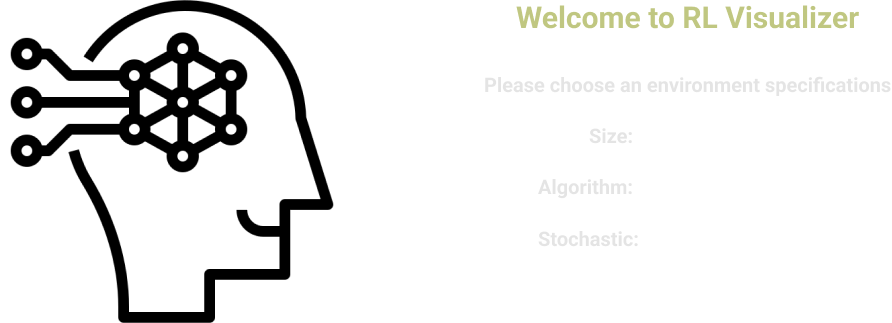
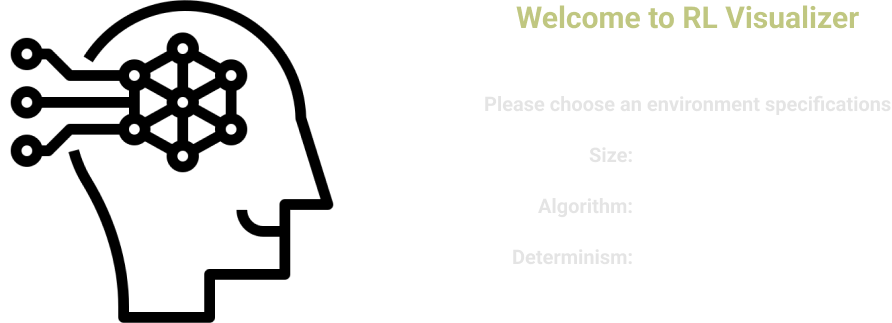
added flexible stochastism functionality

diff --git a/Value_Iteration.py b/Value_Iteration.py
@@ -1,18 +1,18 @@
 import numpy as np
-from tkinter import Canvas
+from tkinter import W, Canvas
 
 from Enums import Actors
 
 class Value_Iteration:   
-    def __init__(self, grid_size, grid_actors, canvas_grid: Canvas, space_width, space_height, stochastic):
+    def __init__(self, grid_size, grid_actors, canvas_grid: Canvas, space_width, space_height, determinism):
         self.grid_size = grid_size
         self.grid_actors = grid_actors
         self.canvas_grid = canvas_grid
         self.space_width = space_width
         self.space_height = space_height
-        self.stochastic = stochastic
+        self.determinism = determinism
         
-        self.R = np.full((self.grid_size, self.grid_size), -0.1)
+        self.R = np.full((self.grid_size, self.grid_size), -1.0)
         self.V = np.zeros((self.grid_size, self.grid_size), float)
         self.draw_rewards()
         self.draw_values()
@@ -85,97 +85,100 @@ class Value_Iteration:
 
     def set_transitions(self):
         self.P = np.zeros((self.grid_size, self.grid_size, self.N_actions, self.grid_size, self.grid_size))
-        fraction = 0.1
 
-        if (self.stochastic == 1):
-            for x in range(self.grid_size):
-                for y in range(self.grid_size):
-                    #North
-                    counter = 0.0
-                    if y != 0 and self.grid_actors[x,y-1] != Actors.obstacle:
-                        if y != self.grid_size - 1 and self.grid_actors[x,y+1] != Actors.obstacle:
-                            self.P[x, y, 0, x, y+1] = fraction
-                            counter += fraction
-                        if x != self.grid_size - 1 and self.grid_actors[x+1,y] != Actors.obstacle:
-                            self.P[x, y, 0, x+1, y] = fraction
-                            counter += fraction
-                        if x != 0 and self.grid_actors[x-1,y] != Actors.obstacle:
-                            self.P[x, y, 0, x-1, y] = fraction
-                            counter += fraction
-                        self.P[x, y, 0, x, y-1] = 1.0 - counter
-                    else:
-                        self.P[x, y, 0, x, y] = 1.0
-                    
-                    #East
-                    counter = 0.0
-                    if x != self.grid_size - 1 and self.grid_actors[x+1,y] != Actors.obstacle:
-                        if y != 0 and self.grid_actors[x,y-1] != Actors.obstacle:
-                            self.P[x, y, 1, x, y-1] = fraction
-                            counter += fraction
-                        if y != self.grid_size - 1 and self.grid_actors[x,y+1] != Actors.obstacle:
-                            self.P[x, y, 1, x, y+1] = fraction
-                            counter += fraction
-                        if x != 0 and self.grid_actors[x-1,y] != Actors.obstacle:
-                            self.P[x, y, 1, x-1, y] = fraction
-                            counter += fraction
-                        self.P[x, y, 1, x+1, y] = 1.0 - counter
-                    else:
-                        self.P[x, y, 1, x, y] = 1.0
-                    
-                    #South
-                    counter = 0.0
+        for x in range(self.grid_size):
+            for y in range(self.grid_size):
+                #North
+                counter = 0
+                if y != 0 and self.grid_actors[x,y-1] != Actors.obstacle:
+                    self.P[x, y, 0, x, y-1] = self.determinism
+
                     if y != self.grid_size - 1 and self.grid_actors[x,y+1] != Actors.obstacle:
-                        if y != 0 and self.grid_actors[x,y-1] != Actors.obstacle:
-                            self.P[x, y, 2, x, y-1] = fraction
-                            counter += fraction
-                        if x != self.grid_size - 1 and self.grid_actors[x+1,y] != Actors.obstacle:
-                            self.P[x, y, 2, x+1, y] = fraction
-                            counter += fraction
-                        if x != 0 and self.grid_actors[x-1,y] != Actors.obstacle:
-                            self.P[x, y, 2, x-1, y] = fraction
-                            counter += fraction
-                        self.P[x, y, 2, x, y+1] = 1.0 - counter
-                    else:
-                        self.P[x, y, 2, x, y] = 1.0
-                    
-                    #West
-                    counter = 0.0
-                    if x != 0 and self.grid_actors[x-1,y] != Actors.obstacle:
-                        if y != 0 and self.grid_actors[x,y-1] != Actors.obstacle:
-                            self.P[x, y, 3, x, y-1] = fraction
-                            counter += fraction
-                        if x != self.grid_size - 1 and self.grid_actors[x+1,y] != Actors.obstacle:
-                            self.P[x, y, 3, x+1, y] = fraction
-                            counter += fraction
-                        if y != self.grid_size - 1 and self.grid_actors[x,y+1] != Actors.obstacle:
-                            self.P[x, y, 3, x, y+1] = fraction
-                            counter += fraction
-                        self.P[x, y, 3, x-1, y] = 1.0 - counter
-                    else:
-                        self.P[x, y, 3, x, y] = 1.0
-        else:
-            for x in range(self.grid_size):
-                for y in range(self.grid_size):
-                    #North
-                    if y != 0 and self.grid_actors[x,y-1] != Actors.obstacle:
-                        self.P[x, y, 0, x, y-1] = 1.0
-                    else:
-                        self.P[x, y, 0, x, y] = 1.0
-                    #east
+                        counter += 1
                     if x != self.grid_size - 1 and self.grid_actors[x+1,y] != Actors.obstacle:
-                        self.P[x, y, 1, x+1, y] = 1.0
-                    else:
-                        self.P[x, y, 1, x, y] = 1.0
-                    #south
-                    if y != self.grid_size - 1 and self.grid_actors[x,y+1] != Actors.obstacle:
-                        self.P[x, y, 2, x, y+1] = 1.0
-                    else:
-                        self.P[x, y, 2, x, y] = 1.0
-                    #west
+                        counter += 1
                     if x != 0 and self.grid_actors[x-1,y] != Actors.obstacle:
-                        self.P[x, y, 3, x-1, y] = 1.0
-                    else:
-                        self.P[x, y, 3, x, y] = 1.0
+                        counter += 1
+                    
+                    wrong_way_probability = (1 - self.determinism) / counter
+
+                    if y != self.grid_size - 1 and self.grid_actors[x,y+1] != Actors.obstacle:
+                        self.P[x, y, 0, x, y+1] = wrong_way_probability
+                    if x != self.grid_size - 1 and self.grid_actors[x+1,y] != Actors.obstacle:
+                        self.P[x, y, 0, x+1, y] = wrong_way_probability
+                    if x != 0 and self.grid_actors[x-1,y] != Actors.obstacle:
+                        self.P[x, y, 0, x-1, y] = wrong_way_probability
+                else:
+                    self.P[x, y, 0, x, y] = 1.0
+
+                #East
+                counter = 0
+                if x != self.grid_size - 1 and self.grid_actors[x+1,y] != Actors.obstacle:
+                    self.P[x, y, 1, x+1, y] = self.determinism
+
+                    if y != 0 and self.grid_actors[x,y-1] != Actors.obstacle:
+                        counter += 1
+                    if y != self.grid_size - 1 and self.grid_actors[x,y+1] != Actors.obstacle:
+                        counter += 1
+                    if x != 0 and self.grid_actors[x-1,y] != Actors.obstacle:
+                        counter += 1
+                    
+                    wrong_way_probability = (1 - self.determinism) / counter
+
+                    if y != 0 and self.grid_actors[x,y-1] != Actors.obstacle:
+                        self.P[x, y, 1, x, y-1] = wrong_way_probability
+                    if y != self.grid_size - 1 and self.grid_actors[x,y+1] != Actors.obstacle:
+                        self.P[x, y, 1, x, y+1] = wrong_way_probability
+                    if x != 0 and self.grid_actors[x-1,y] != Actors.obstacle:
+                        self.P[x, y, 1, x-1, y] = wrong_way_probability
+                else:
+                    self.P[x, y, 1, x, y] = 1.0
+                
+                #South
+                counter = 0.0
+                if y != self.grid_size - 1 and self.grid_actors[x,y+1] != Actors.obstacle:
+                    self.P[x, y, 2, x, y+1] = self.determinism
+
+                    if y != 0 and self.grid_actors[x,y-1] != Actors.obstacle:
+                        counter += 1
+                    if x != self.grid_size - 1 and self.grid_actors[x+1,y] != Actors.obstacle:
+                        counter += 1
+                    if x != 0 and self.grid_actors[x-1,y] != Actors.obstacle:
+                        counter += 1
+                    
+                    wrong_way_probability = (1 - self.determinism) / counter
+
+                    if y != 0 and self.grid_actors[x,y-1] != Actors.obstacle:
+                        self.P[x, y, 2, x, y-1] = wrong_way_probability
+                    if x != self.grid_size - 1 and self.grid_actors[x+1,y] != Actors.obstacle:
+                        self.P[x, y, 2, x+1, y] = wrong_way_probability
+                    if x != 0 and self.grid_actors[x-1,y] != Actors.obstacle:
+                        self.P[x, y, 2, x-1, y] = wrong_way_probability
+                else:
+                    self.P[x, y, 2, x, y] = 1.0
+                
+                #West
+                counter = 0.0
+                if x != 0 and self.grid_actors[x-1,y] != Actors.obstacle:
+                    self.P[x, y, 3, x-1, y] = self.determinism
+
+                    if y != 0 and self.grid_actors[x,y-1] != Actors.obstacle:
+                        counter += 1
+                    if x != self.grid_size - 1 and self.grid_actors[x+1,y] != Actors.obstacle:
+                        counter += 1
+                    if y != self.grid_size - 1 and self.grid_actors[x,y+1] != Actors.obstacle:
+                        counter += 1
+
+                    wrong_way_probability = (1 - self.determinism) / counter
+
+                    if y != 0 and self.grid_actors[x,y-1] != Actors.obstacle:
+                        self.P[x, y, 3, x, y-1] = wrong_way_probability
+                    if x != self.grid_size - 1 and self.grid_actors[x+1,y] != Actors.obstacle:
+                        self.P[x, y, 3, x+1, y] = wrong_way_probability
+                    if y != self.grid_size - 1 and self.grid_actors[x,y+1] != Actors.obstacle:
+                        self.P[x, y, 3, x, y+1] = wrong_way_probability
+                else:
+                    self.P[x, y, 3, x, y] = 1.0
 
 
     def draw_values(self):
@@ -195,10 +198,10 @@ class Value_Iteration:
         for x in range(self.grid_size):
             for y in range(self.grid_size):
                 if self.grid_actors[x,y] == Actors.goal:
-                    self.R[x,y] = 999999999
+                    self.R[x,y] = 99
 
                 if self.grid_actors[x,y] == Actors.monster:
-                    self.R[x,y] = -200
+                    self.R[x,y] = -20
 
         for x in range(self.grid_size):
             for y in range(self.grid_size):

diff --git a/WIndow.py b/WIndow.py
@@ -1,18 +1,16 @@
-from unittest.mock import patch
 from Policy_Iteration import Policy_Iteration
 from Value_Iteration import Value_Iteration
 from Enums import Actors
 
 from tkinter import *
 from tkinter import filedialog
+from idlelib.tooltip import Hovertip
 from PIL import ImageTk, Image
 import numpy as np
-import sympy as sp
+
 #import matplotlib.pyplot as plt   
 
 from math import floor
-
-
 
 
 class Window:
@@ -42,37 +40,41 @@ class Window:
 
         self.img0 = PhotoImage(file = f"img/img3.png")
         self.b0 = Button(image = self.img0, borderwidth = 0, highlightthickness = 0, command=self.destroy_intro_window, relief = "flat")
-        self.b0.place(x = 615, y = 376, width = 247, height = 35)
+        self.b0.place(x = 615, y = 386, width = 247, height = 35)
 
         self.scale_size = Scale(from_=2, to=6, orient=HORIZONTAL, length=70, resolution=1, bg = "#E4E4E4")
-        self.scale_size.place(x = 704, y = 210)
+        self.scale_size.place(x = 704, y = 220)
 
         self.options_algo = ["Value Iteration", "Policy Iteration"]
         self.algo = StringVar(self.window)
         self.algo.set(self.options_algo[0])
         self.dropdown = OptionMenu(self.window, self.algo, *self.options_algo)
         self.dropdown.config(width=15)
-        self.dropdown.place(x = 704, y = 265)
+        self.dropdown.place(x = 704, y = 275)
 
-        self.stochastic = IntVar()
-        self.check = Checkbutton(bg = "#E4E4E4", variable=self.stochastic)
-        self.check.place(x = 704, y = 310)
+        self.deterministic = Scale(from_=0.5, to=1.0, orient=HORIZONTAL, length=70, resolution=0.01, bg = "#E4E4E4")
+        self.deterministic.place(x = 704, y = 320)
+        self.deterministic.set(1.0)
+
+        self.img1 = PhotoImage(file = f"img/question.png")
+        self.question = Label(image=self.img1)
+        self.question.place(x=790, y=330)
+
+        self.myTip = Hovertip(self.question,'Represents a probability of ending in a desired state \n 1.0 represents a deterministic environment \n 0.5 represents a random environment', hover_delay=0)        
 
 
     def destroy_intro_window(self):
         self.size = self.scale_size.get()
         self.grid_actors = np.full((self.size, self.size), Actors.empty, Actors)
 
-        if self.stochastic.get() == 0:
-            self.state = "Deterministic"
-        else:
-            self.state = "Stochastic"
-
         self.canvas.delete('all')
         self.b0.destroy()
-        self.check.destroy()
         self.dropdown.destroy()
         self.scale_size.destroy()
+        self.question.destroy()
+
+        self.determinism = self.deterministic.get()
+        self.deterministic.destroy()
 
         self.show_setup_window()
 
@@ -89,7 +91,6 @@ class Window:
         self.dropdown.place(x = 60, y = 80)
 
         self.text_algo = self.canvas.create_text(119.0, 217.5, text = self.algo.get(), fill = "#ffffff", font = ("RobotoRoman-Bold", 15))
-        self.text_state = self.canvas.create_text(118.5, 265.5, text = self.state, fill = "#ffffff", font = ("RobotoRoman-Bold", 15))
 
         self.img0 = PhotoImage(file = f"img/img4.png")
         self.b0 = Button(image = self.img0, borderwidth = 0, highlightthickness = 0, command=self.validate_setup_inputs, relief = "flat")
@@ -274,15 +275,16 @@ class Window:
 
     def destroy_setup_window(self):
         if self.algo.get() == self.options_algo[0]:
-            self.algorithm = Value_Iteration(self.size, self.grid_actors, self.canvas_grid, self.space_width, self.space_height, self.stochastic.get())
+            self.algorithm = Value_Iteration(self.size, self.grid_actors, self.canvas_grid, self.space_width, self.space_height, self.determinism)
         
         if self.algo.get() == self.options_algo[1]:
-            self.algorithm = Policy_Iteration(self.size, self.grid_actors, self.canvas_grid, self.space_width, self.space_height, self.stochastic.get())
+            self.algorithm = Policy_Iteration(self.size, self.grid_actors, self.canvas_grid, self.space_width, self.space_height, self.determinism)
             pass
 
         self.canvas.delete(self.text_algo)
-        self.canvas.delete(self.text_state)
         self.b0.destroy()
+        self.b1.destroy()
+        self.b2.destroy()
         self.dropdown.destroy()
         self.show_main_window()
 
@@ -328,10 +330,6 @@ class Window:
 
 
 if __name__ == "__main__":
-    # x = sp.symbols("x")
-    # expr = sp.sin(sp.sqrt(x**2 + 20)) + 1
-    # sp.preview(expr, viewer='file', filename='output.png')
-
     my_window = Window()
 
     my_window.window.mainloop()
